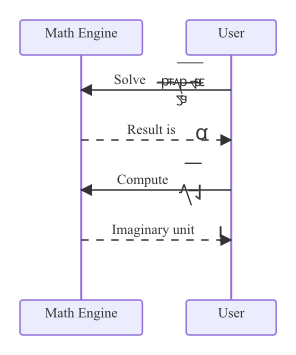
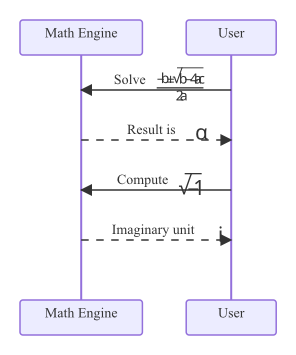
fix(math): glyphs were rendered upside down
sfnt.LoadGlyph returns segment coordinates in y-down (origin at the
glyph's baseline reference point), not y-up — see the doc comment on
Font.LoadGlyph: "In the returned Segments' (x, y) coordinates, the Y
axis increases down." The renderer was negating p.Y on the assumption
of TrueType y-up, which mirrored every glyph vertically. Fractions
ended up with the bar inside the numerator and digits/letters were
visibly flipped.

Switch to additive y in both math.svgRenderer and rich.renderCharGlyph.

Changed region(s): [[0.5169, 0.1549, 0.6993, 0.3099], [0.6081, 0.4338, 0.6993, 0.5887], [0.7297, 0.6197, 0.7601, 0.6507]]

diff --git a/pkg/renderer/math/math.go b/pkg/renderer/math/math.go
@@ -139,23 +139,25 @@ func (r *svgRenderer) renderGlyph(buf *sfnt.Buffer, op drawtex.GlyphOp) {
 		case sfnt.SegmentOpMoveTo:
 			p := seg.Args[0]
 			x := op.X + float64(p.X)/64
-			// TrueType y-positive is UP; SVG is DOWN.
-			ty := op.Y - float64(p.Y)/64
+			// sfnt.LoadGlyph already returns segment coordinates in
+			// y-down (origin at the glyph's baseline reference point);
+			// add directly without flipping.
+			ty := op.Y + float64(p.Y)/64
 			r.noteY(ty)
 			fmt.Fprintf(&d, "M%.3f %.3f ", x, ty)
 		case sfnt.SegmentOpLineTo:
 			p := seg.Args[0]
 			x := op.X + float64(p.X)/64
-			ty := op.Y - float64(p.Y)/64
+			ty := op.Y + float64(p.Y)/64
 			r.noteY(ty)
 			fmt.Fprintf(&d, "L%.3f %.3f ", x, ty)
 		case sfnt.SegmentOpQuadTo:
 			p1 := seg.Args[0]
 			p2 := seg.Args[1]
 			x1 := op.X + float64(p1.X)/64
-			y1 := op.Y - float64(p1.Y)/64
+			y1 := op.Y + float64(p1.Y)/64
 			x2 := op.X + float64(p2.X)/64
-			y2 := op.Y - float64(p2.Y)/64
+			y2 := op.Y + float64(p2.Y)/64
 			r.noteY(y1)
 			r.noteY(y2)
 			fmt.Fprintf(&d, "Q%.3f %.3f %.3f %.3f ", x1, y1, x2, y2)
@@ -164,11 +166,11 @@ func (r *svgRenderer) renderGlyph(buf *sfnt.Buffer, op drawtex.GlyphOp) {
 			p2 := seg.Args[1]
 			p3 := seg.Args[2]
 			x1 := op.X + float64(p1.X)/64
-			y1 := op.Y - float64(p1.Y)/64
+			y1 := op.Y + float64(p1.Y)/64
 			x2 := op.X + float64(p2.X)/64
-			y2 := op.Y - float64(p2.Y)/64
+			y2 := op.Y + float64(p2.Y)/64
 			x3 := op.X + float64(p3.X)/64
-			y3 := op.Y - float64(p3.Y)/64
+			y3 := op.Y + float64(p3.Y)/64
 			r.noteY(y1)
 			r.noteY(y2)
 			r.noteY(y3)

diff --git a/pkg/renderer/math/rich.go b/pkg/renderer/math/rich.go
@@ -288,24 +288,24 @@ func renderCharGlyph(r rune, fontSize float64) (advance float64, svg string, err
 		switch seg.Op {
 		case sfnt.SegmentOpMoveTo:
 			p := seg.Args[0]
-			fmt.Fprintf(&d, "M%.3f %.3f ", float64(p.X)/64, -float64(p.Y)/64)
+			fmt.Fprintf(&d, "M%.3f %.3f ", float64(p.X)/64, float64(p.Y)/64)
 		case sfnt.SegmentOpLineTo:
 			p := seg.Args[0]
-			fmt.Fprintf(&d, "L%.3f %.3f ", float64(p.X)/64, -float64(p.Y)/64)
+			fmt.Fprintf(&d, "L%.3f %.3f ", float64(p.X)/64, float64(p.Y)/64)
 		case sfnt.SegmentOpQuadTo:
 			p1 := seg.Args[0]
 			p2 := seg.Args[1]
 			fmt.Fprintf(&d, "Q%.3f %.3f %.3f %.3f ",
-				float64(p1.X)/64, -float64(p1.Y)/64,
-				float64(p2.X)/64, -float64(p2.Y)/64)
+				float64(p1.X)/64, float64(p1.Y)/64,
+				float64(p2.X)/64, float64(p2.Y)/64)
 		case sfnt.SegmentOpCubeTo:
 			p1 := seg.Args[0]
 			p2 := seg.Args[1]
 			p3 := seg.Args[2]
 			fmt.Fprintf(&d, "C%.3f %.3f %.3f %.3f %.3f %.3f ",
-				float64(p1.X)/64, -float64(p1.Y)/64,
-				float64(p2.X)/64, -float64(p2.Y)/64,
-				float64(p3.X)/64, -float64(p3.Y)/64)
+				float64(p1.X)/64, float64(p1.Y)/64,
+				float64(p2.X)/64, float64(p2.Y)/64,
+				float64(p3.X)/64, float64(p3.Y)/64)
 		}
 	}
 	if d.Len() == 0 {
